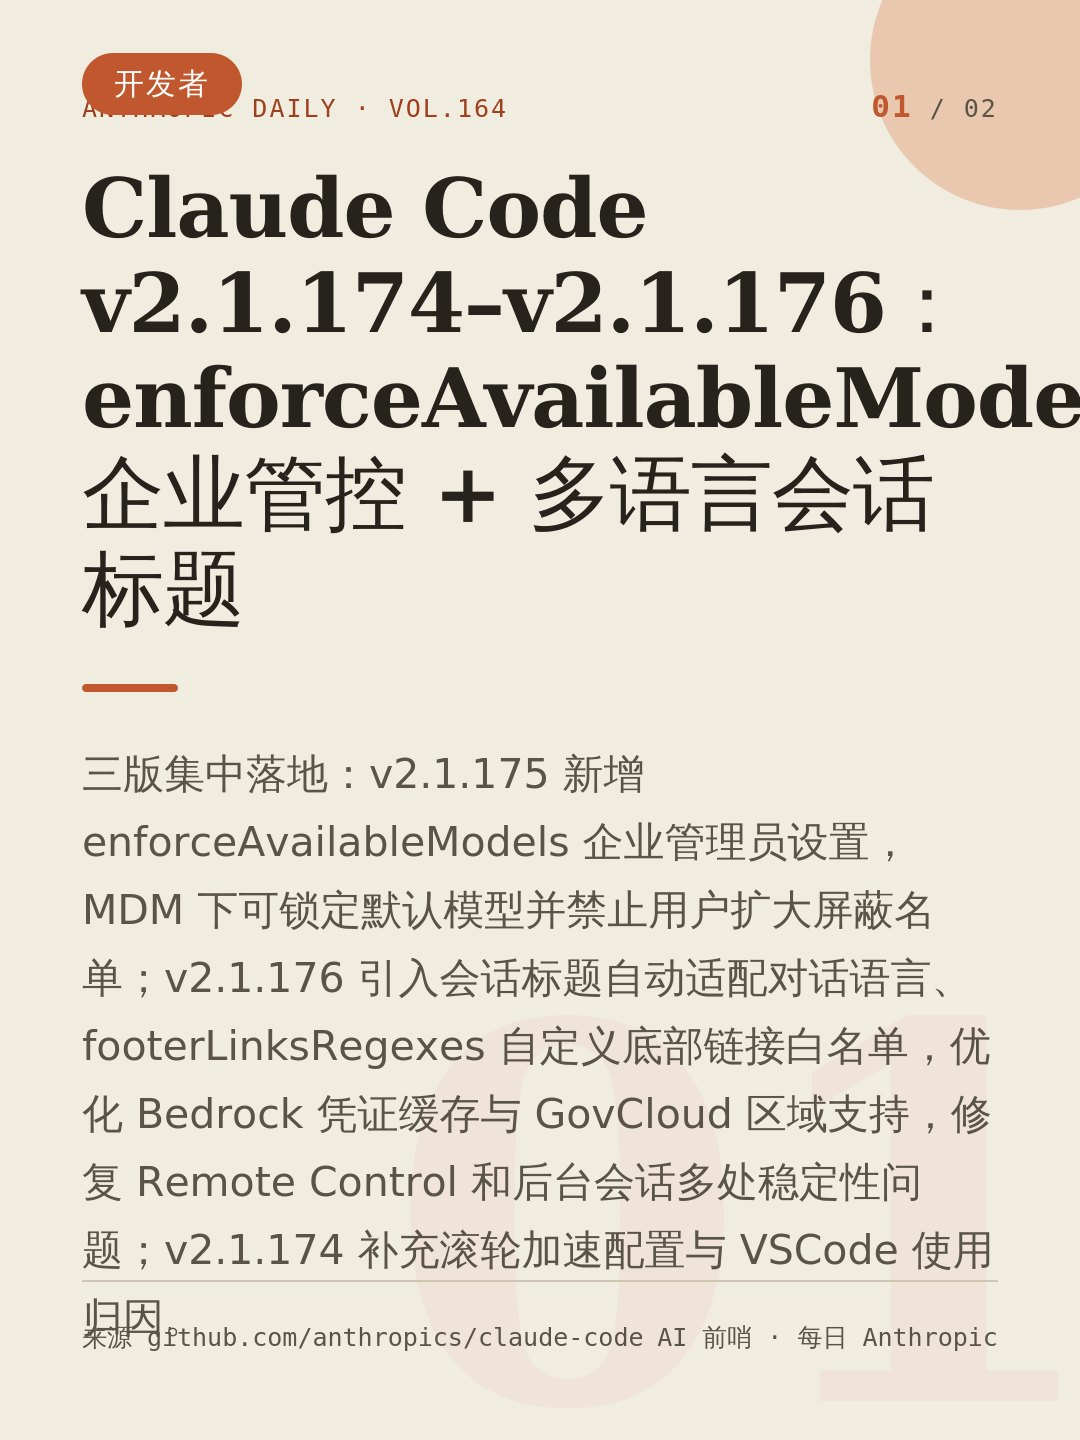
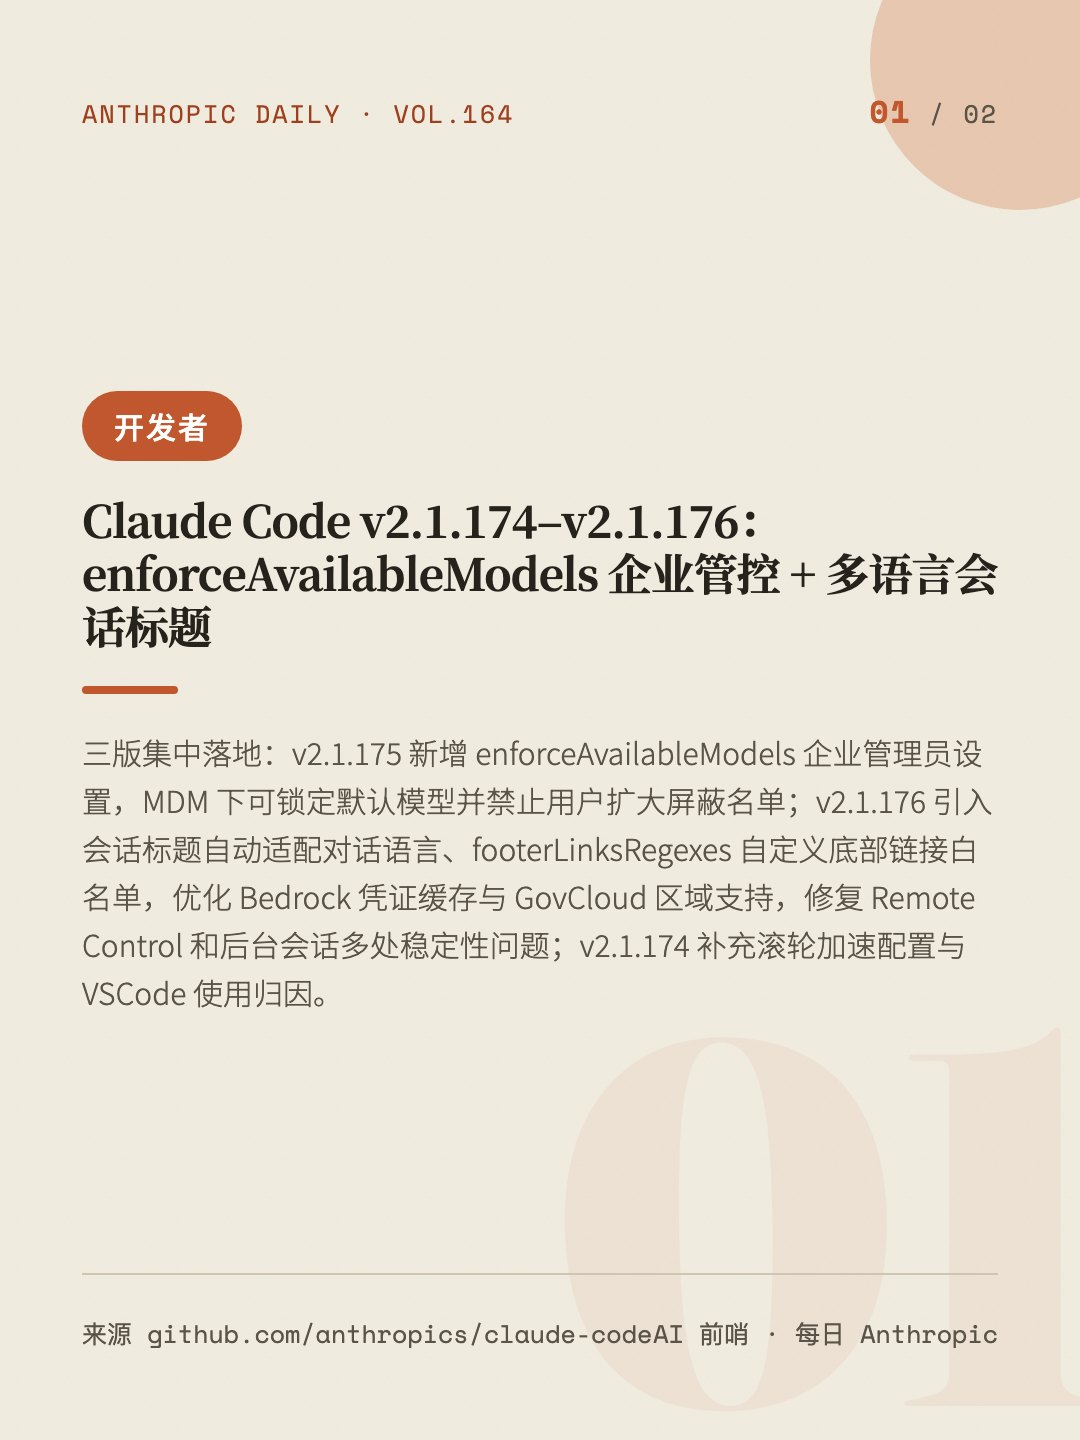
fix(cards): 小红书卡片长文案按字数自适应字号，避免溢出裁切
固定 1080×1440 + overflow:hidden 的内容卡，标题/摘要写死字号，
长文案（今日 NVIDIA 摘要 286 字、Anthropic 标题 67 字）被裁。
cards.js 新增 fitClass：按标题/摘要字数附加 t1..t4/s1..s4，
cards.css 配套逐档缩小字号并收紧间距。纯字数判定，预览页/playwright/wkhtml 一致。
连带用 playwright 重渲染今日四厂商卡片。

diff --git a/skills/ai-daily-digest/cards.js b/skills/ai-daily-digest/cards.js
@@ -33,6 +33,17 @@
   };
   function vendorOf(DATA){ return VENDORS[(DATA && DATA.vendor) || "anthropic"] || VENDORS.anthropic; }
 
+  // 小红书内容卡是固定 1080×1440 + overflow:hidden，长文案会被裁切。
+  // 按标题/摘要字数分档，给卡片附加 t1..t4 / s1..s4 class（见 cards.css），
+  // 自适应缩小字号让文字容得下；短文案不附 class，保持原始大字号美观。
+  // 纯字数判定 → 确定性、跨环境（预览页/playwright/wkhtml）一致，无需运行时测量。
+  function fitClass(title, summary){
+    var t = String(title==null?"":title).length, s = String(summary==null?"":summary).length;
+    var tc = t<=22?"" : t<=34?"t1" : t<=48?"t2" : t<=64?"t3" : "t4";
+    var sc = s<=110?"" : s<=165?"s1" : s<=220?"s2" : s<=275?"s3" : "s4";
+    return (tc + " " + sc).trim();
+  }
+
   function buildDeck(DATA){
     var out=[], U=DATA.updates||[], V=vendorOf(DATA), vc="v-"+V.id;
 
@@ -52,7 +63,7 @@
 
     // 小红书内容卡
     U.forEach(function(u,i){
-      out.push({name:"小红书_"+pad(i+1)+"_"+esc(u.tag), cls:vc+" xhs xhs-item", w:1080, h:1440, inner:`
+      out.push({name:"小红书_"+pad(i+1)+"_"+esc(u.tag), cls:(vc+" xhs xhs-item "+fitClass(u.title,u.summary)).trim(), w:1080, h:1440, inner:`
         <div class="blob" style="width:300px;height:300px;background:var(--accent-soft);top:-90px;right:-90px;opacity:.5"></div>
         <div class="bgnum">${pad(i+1)}</div>
         <div class="inner">

diff --git a/skills/ai-daily-digest/cards.css b/skills/ai-daily-digest/cards.css
@@ -79,6 +79,18 @@
 .xhs-item h2{font-family:var(--serifcn);font-weight:700;font-size:82px;line-height:1.16;margin-top:46px;letter-spacing:-1px}
 .xhs-item .rule{width:96px;height:8px;background:var(--accent);border-radius:4px;margin:48px 0}
 .xhs-item .sum{font-size:41px;line-height:1.66;color:var(--muted);font-weight:300}
+/* 长文案自适应字号（由 cards.js fitClass 按字数附加 t1..t4 / s1..s4），
+   字号越小连带收紧标题上间距与 rule 间距，给正文腾出更多高度，避免裁切 */
+.xhs-item.t1 h2{font-size:68px}
+.xhs-item.t2 h2{font-size:58px;margin-top:40px}
+.xhs-item.t3 h2{font-size:50px;margin-top:36px}
+.xhs-item.t4 h2{font-size:44px;line-height:1.2;margin-top:32px}
+.xhs-item.s1 .sum{font-size:37px}
+.xhs-item.s2 .sum{font-size:33px;line-height:1.62}
+.xhs-item.s3 .sum{font-size:30px;line-height:1.6}
+.xhs-item.s4 .sum{font-size:28px;line-height:1.58}
+.xhs-item.t3 .rule,.xhs-item.t4 .rule{margin:36px 0}
+.xhs-item.s3 .rule,.xhs-item.s4 .rule{margin:34px 0}
 .xhs-item .src{padding-top:40px;border-top:2px solid var(--line);font-family:var(--mono);font-size:25px;color:var(--muted);display:flex;justify-content:space-between}
 /* 来源链接：继承父级颜色、默认无下划线 → 导出图片视觉零变化；展示页 hover 才显下划线 */
 .srclink{color:inherit;text-decoration:none}
